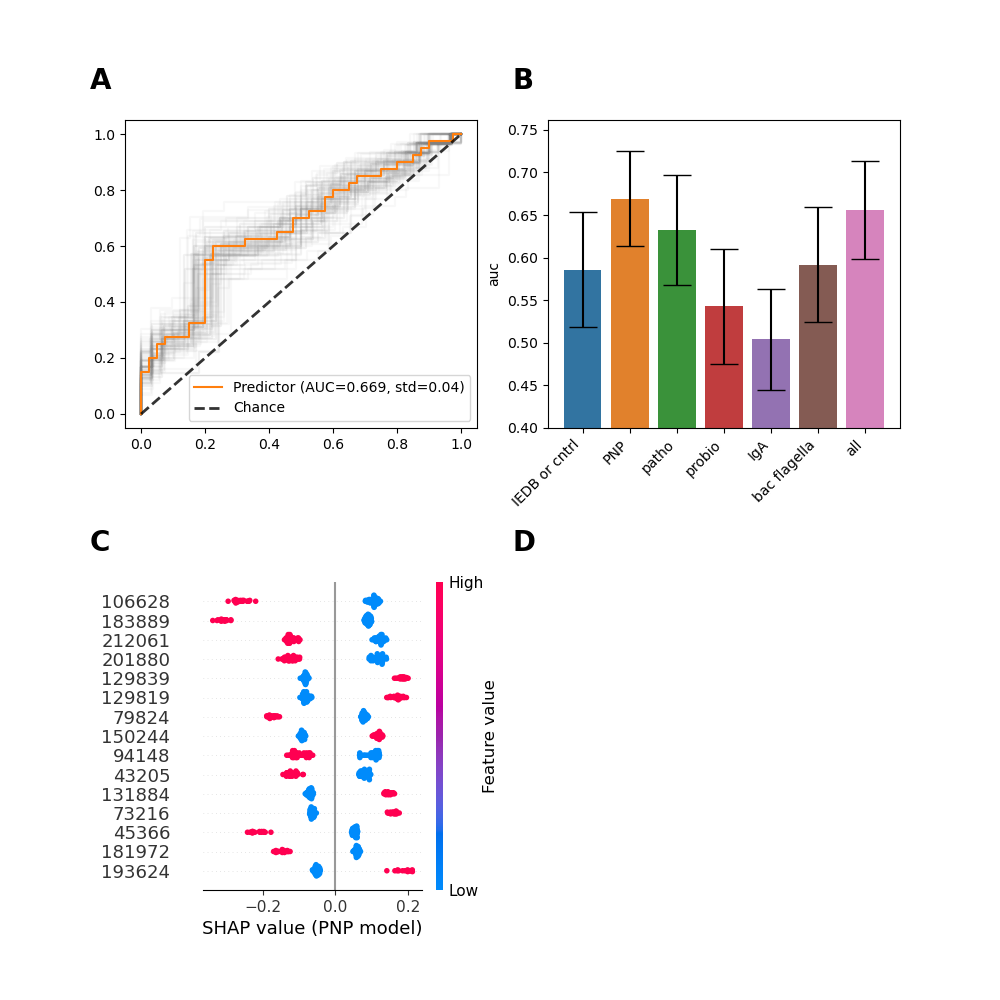
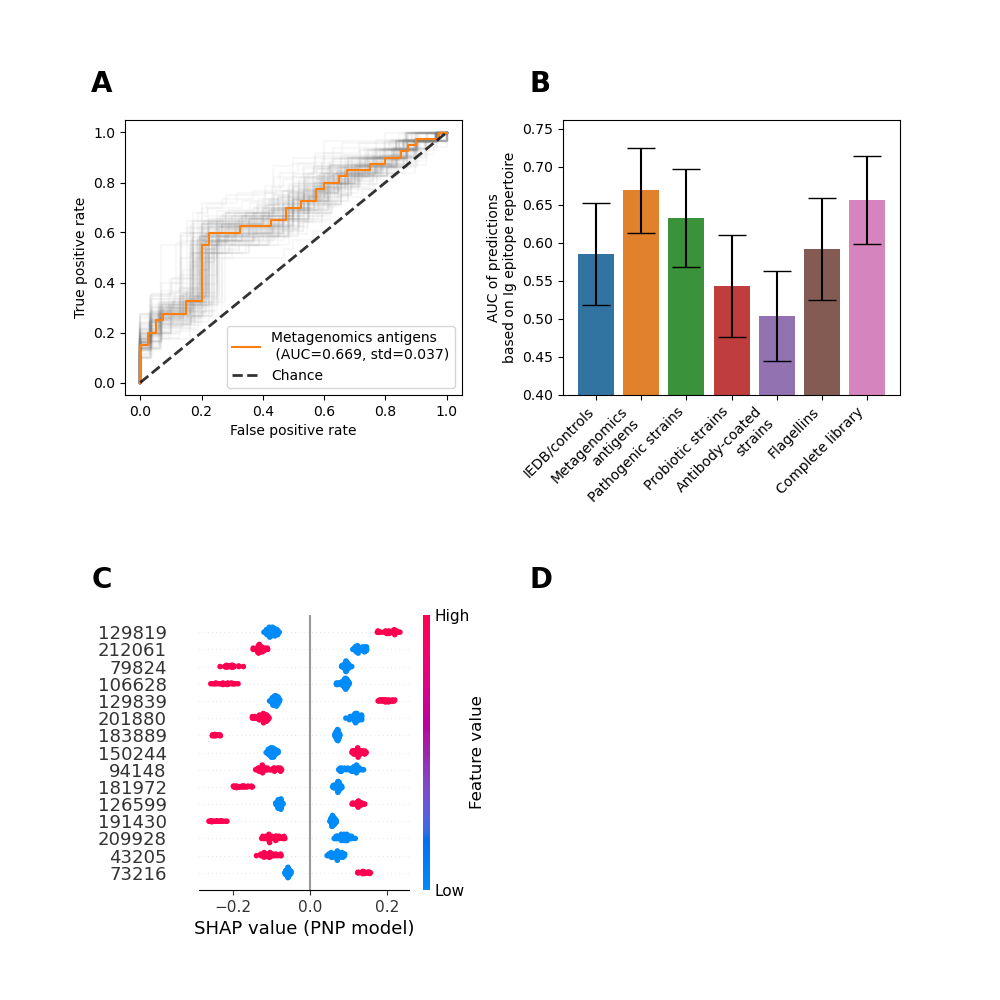
Renaming sections and labels in all figures

diff --git a/PhageIPSeq_CFS/Figures_scripts/figure_1.py b/PhageIPSeq_CFS/Figures_scripts/figure_1.py
@@ -1,5 +1,6 @@
 import os
 import string
+
 import matplotlib.patches as mpatches
 import matplotlib.pyplot as plt
 import pandas as pd
@@ -9,7 +10,7 @@ from skbio.diversity.alpha import shannon
 from statannot import add_stat_annotation
 from statsmodels.stats.multitest import multipletests
 
-from PhageIPSeq_CFS.config import visualizations_dir, oligo_families, oligo_families_colors
+from PhageIPSeq_CFS.config import visualizations_dir, oligo_families, oligo_families_colors, oligos_group_to_name
 from PhageIPSeq_CFS.helpers import get_data_with_outcome, get_oligos_metadata, split_xy_df_and_filter_by_threshold, \
     get_individuals_metadata_df
 
@@ -31,7 +32,7 @@ def create_figure_1(overwrite=True):
     ax = fig.add_subplot(spec[0, 1])
     ax.text(-0.1, 1.1, string.ascii_uppercase[1], transform=ax.transAxes, size=20, weight='bold')
     ax.set_axis_off()
-    internal_spec = spec[0, 1].subgridspec(2, 1, height_ratios=[1, 2])
+    internal_spec = spec[0, 1].subgridspec(2, 1, height_ratios=[1, 4])
     # adding empty space for table on cohort info
     ax = fig.add_subplot(internal_spec[0])
     ax.set_axis_off()
@@ -79,7 +80,7 @@ def create_figure_1(overwrite=True):
     sns.boxplot(data=df, x='status', y='num_oligos', palette=sns.color_palette("muted")[-2:][::-1], ax=ax)
     ax.set_xlabel('')
     ax.spines['right'].set_linestyle('dashed')
-    ax.set_ylabel('Number of oligos per individual')
+    ax.set_ylabel('Number of significantly bound\npeptides per individual')
 
     ax = fig.add_subplot(internal_figure_spec[1])
     ax.get_yaxis().set_visible(False)
@@ -88,25 +89,25 @@ def create_figure_1(overwrite=True):
     ax2 = sns.boxplot(data=df2, x='status', y='shannon_div', palette=sns.color_palette()[-2:][::-1], ax=ax2)
     ax2.set_xlabel('')
     ax2.spines['left'].set_visible(False)
-    ax2.set_ylabel(r'Shannon $\alpha$-diversity')
+    ax2.set_ylabel(r'Shannon $\alpha$-diversity' +' of\nantibody epitope repertoires')
 
     # sub-figure d - scatter plot of expression
     ax = fig.add_subplot(spec[1, 0])
     df = get_data_with_outcome(data_type='exist')
-    cfs_label = 'Number of CFS patients in whome a\npeptite is significantly bound'
-    healthy_label = 'Number of healthy patients in whome\na peptite is significantly bound'
+    cfs_label = 'Percent of CFS patients in whom a\npeptide is significantly bound'
+    healthy_label = 'Percent of healthy patients in whom\na peptide is significantly bound'
     df['disease_status'] = df.reset_index()['is_CFS'].astype(bool).apply(
         lambda x: cfs_label if x else healthy_label).values
-    df = df.groupby('disease_status').sum().T
+    df = df.groupby('disease_status').mean().mul(100).T
     df['is_flagellin'] = get_oligos_metadata()['is_bac_flagella']
     df.sort_values(by='is_flagellin', inplace=True)
     sns.scatterplot(data=df, x=cfs_label,
                     y=healthy_label, hue='is_flagellin',
-                    palette=['lightgray', oligo_families_colors['bac flagella']],
+                    palette=['lightgray', oligo_families_colors['Flagellins']],
                     ax=ax)
     legend_handels, legend_labels = ax.get_legend_handles_labels()
     legend_handels = [legend_handels[legend_labels.index('True')]]
-    legend_labels = ['Bacterial flagellins']
+    legend_labels = ['Flagellins']
     ax.legend(handles=legend_handels, labels=legend_labels)
 
     ax.text(-0.1, 1.1, string.ascii_uppercase[3], transform=ax.transAxes, size=20, weight='bold')
@@ -118,12 +119,13 @@ def create_figure_1(overwrite=True):
     df = df.groupby('is_CFS').sum()
     df = df.loc[:, df.ne(0).all()].copy()
     metadata = get_oligos_metadata()[oligo_families].rename(
-        columns={col: ' '.join(col.split('_')[1:]) for col in oligo_families}).loc[df.columns].stack()
+        columns=oligos_group_to_name).loc[df.columns].stack()
     metadata = metadata[metadata].reset_index(level=-1).drop(columns=0).rename(columns={'level_1': 'Oligo family'})
-    ratio_column = 'Number of patients with oligo\nexpression CFS to healthy ratio'
+    ratio_column = 'Ratios of CFS and healthy individuals'
     metadata[ratio_column] = df.apply(
         lambda oligo: oligo[int(True)] / oligo[int(False)])
-    order = ['PNP', 'patho', 'probio', 'IgA', 'bac flagella', 'IEDB or cntrl']
+    order = ['Metagenomics\nantigens', 'Pathogenic strains', 'Probiotic strains',
+             'Antibody-coated\nstrains', 'Flagellins', 'IEDB/controls']
     ax = sns.boxplot(data=metadata, x='Oligo family', y=ratio_column, ax=ax, order=order,
                      palette=list(map(lambda family: oligo_families_colors[family], order)))
     pval_res = {}
@@ -148,8 +150,7 @@ def create_figure_1(overwrite=True):
     ax = fig.add_subplot(spec[1, 2])
     ax.set_axis_off()
     df = get_data_with_outcome(data_type='exist').reset_index(0).groupby('is_CFS').sum().T
-    metadata = get_oligos_metadata()[oligo_families].rename(
-        columns={col: ' '.join(col.split('_')[1:]) for col in oligo_families}).loc[df.index]
+    metadata = get_oligos_metadata()[oligo_families].rename(columns=oligos_group_to_name).loc[df.index]
     rank_sum_res = {}
     for col in metadata.columns:
         rank_sum_res[col] = stats.ranksums(*df.loc[metadata[col]].T.values)
@@ -158,7 +159,7 @@ def create_figure_1(overwrite=True):
     rank_sum_res['p-value'] = rank_sum_res['p-value'].apply('{:.0e}'.format)
     table = ax.table(cellText=rank_sum_res.astype(str).values, rowLabels=rank_sum_res.index.values,
                      colLabels=rank_sum_res.columns, loc='center right', colWidths=[0.3, 0.3, 0.3])
-    table.scale(1, 2)
+    table.scale(1, 2.5)
     ax.text(-0.1, 1.1, string.ascii_uppercase[5], transform=ax.transAxes, size=20, weight='bold')
 
     if overwrite:

diff --git a/PhageIPSeq_CFS/Figures_scripts/figure_4.py b/PhageIPSeq_CFS/Figures_scripts/figure_4.py
@@ -12,7 +12,7 @@ from scipy import stats
 from PhageIPSeq_CFS.ComparePopulations.comparing_metadata import get_blood_test_name, \
     metadata_distribution_figure_single_blood_test
 from PhageIPSeq_CFS.config import visualizations_dir, oligo_order, \
-    oligo_families_colors, predictors_info, predictions_outcome_dir
+    oligo_families_colors, predictors_info, predictions_outcome_dir, oligos_group_to_name
 from PhageIPSeq_CFS.helpers import get_individuals_metadata_df, get_outcome, get_imputed_individuals_metadata, \
     compute_auc_from_prediction_results, get_x_y, create_auc_with_bootstrap_figure, get_oligos_metadata
 
@@ -84,8 +84,7 @@ if __name__ == "__main__":
         blood_test_auc_std, blood_test_auc = create_auc_with_bootstrap_figure(
             num_confidence_intervals_repeats=num_auc_repeats, x=x, y=y,
             predictor_class=estimator_info['predictor_class'], ax=ax, color=blood_tests_only_color,
-            prediction_results=prediction_results, **predictor_kwargs)
-        ax.set_title('Blood tests alone')
+            prediction_results=prediction_results, predictor_name='Blood tests alone\n', **predictor_kwargs)
         tmp = ax.text(ax.transData.inverted().transform((255, 10))[0], 1.1, string.ascii_uppercase[1],
                       transform=ax.transAxes, size=20, weight='bold')
 
@@ -112,9 +111,9 @@ if __name__ == "__main__":
             ['predict_proba']]
         prediction_results['y'] = y
         create_auc_with_bootstrap_figure(num_auc_repeats, x, y, estimator_info['predictor_class'],
-                                         color=oligo_families_colors['bac flagella'],
-                                         ax=ax, prediction_results=prediction_results, **predictor_kwargs)
-        ax.set_title('Blood tests and flagella')
+                                         color=oligo_families_colors['Flagellins'],
+                                         ax=ax, prediction_results=prediction_results,
+                                         predictor_name='Blood tests and flagellins\n', **predictor_kwargs)
         ax.text(-0.1, 1.1, string.ascii_uppercase[2], transform=ax.transAxes, size=20, weight='bold')
 
         # Summary of results
@@ -124,8 +123,7 @@ if __name__ == "__main__":
         best_auc_df = df.stack(level=0).reset_index().sort_values(by='auc', ascending=False).groupby(
             'subgroup').first().reset_index()
         best_auc_df['subgroup'] = best_auc_df['subgroup'].apply(
-            lambda subgroup: ' '.join(subgroup.split('_'))).apply(
-            lambda subgroup: subgroup[3:] if subgroup.startswith('is ') else subgroup)
+            lambda subgroup: oligos_group_to_name[subgroup])
         best_auc_df['auc_ci'] = best_auc_df.apply(
             lambda row: np.array(stats.norm(0, row['std']).interval(0.95)), axis=1)
         sns.barplot(data=best_auc_df, x='subgroup', y='auc', ci=None, ax=ax, palette=sns.color_palette(),
@@ -136,11 +134,11 @@ if __name__ == "__main__":
                   'fmt': 'none', 'ecolor': 'black', 'capsize': 10}
         ax.errorbar(**params)
         ax.set_ylim(bottom=0.7)
-        ax.set_title('Prediction results by subgroup')
         ax.set_xticklabels(ax.get_xticklabels(), rotation=45, ha='right')
         ax.legend(
             handles=[mpatches.Patch(facecolor=blood_tests_only_color, label='Blood tests only', edgecolor='black')])
         ax.xaxis.label.set_visible(False)
+        ax.set_ylabel('AUC of predictions\nbased on Ig epitope repertoire')
         ax.text(-0.1, 1.1, string.ascii_uppercase[3], transform=ax.transAxes, size=20, weight='bold')
 
         # Add shap beeswarm of flagella model

diff --git a/PhageIPSeq_CFS/Figures_scripts/figure_3.py b/PhageIPSeq_CFS/Figures_scripts/figure_3.py
@@ -9,7 +9,7 @@ from matplotlib import pyplot as plt
 from scipy import stats
 
 from PhageIPSeq_CFS.config import visualizations_dir, predictors_info, predictions_outcome_dir, oligo_families_colors, \
-    oligo_order
+    oligo_order, oligos_group_to_name
 from PhageIPSeq_CFS.helpers import get_outcome, get_x_y, get_oligos_metadata, \
     create_auc_with_bootstrap_figure
 
@@ -20,7 +20,7 @@ if __name__ == "__main__":
     for estimator_name, estimator_info in predictors_info.items():
         predictor_kwargs = estimator_info['predictor_kwargs']
         fig = plt.figure(figsize=(10, 10))
-        spec = fig.add_gridspec(2, 2, hspace=0.5)
+        spec = fig.add_gridspec(2, 2, hspace=0.8, wspace=0.3)
         num_auc_repeats = 100
 
         # Sub-figure a
@@ -40,8 +40,9 @@ if __name__ == "__main__":
         prediction_results = prediction_results.set_index('sample_id').rename(columns={'0': 'predict_proba'})
         prediction_results['y'] = get_outcome()
         create_auc_with_bootstrap_figure(num_auc_repeats, None, None, estimator_info['predictor_class'],
-                                         color=oligo_families_colors['PNP'], chance_color='black',
-                                         ax=ax, prediction_results=prediction_results, **predictor_kwargs)
+                                         color=oligo_families_colors['Metagenomics\nantigens'], chance_color='black',
+                                         ax=ax, prediction_results=prediction_results,
+                                         predictor_name='Metagenomics antigens\n', **predictor_kwargs)
         ax.text(-0.1, 1.1, string.ascii_uppercase[0], transform=ax.transAxes, size=20, weight='bold')
 
         # Sub-figure b
@@ -51,9 +52,7 @@ if __name__ == "__main__":
             index_col=[0, 1], header=[0, 1])
         best_auc_df = df.stack(level=0).reset_index().sort_values(by='auc', ascending=False).groupby(
             'subgroup').first().reset_index()
-        best_auc_df['subgroup'] = best_auc_df['subgroup'].apply(
-            lambda subgroup: ' '.join(subgroup.split('_'))).apply(
-            lambda subgroup: subgroup[3:] if subgroup.startswith('is ') else subgroup)
+        best_auc_df['subgroup'] = best_auc_df['subgroup'].apply(lambda subgroup: oligos_group_to_name[subgroup])
         best_auc_df['auc_ci'] = best_auc_df.apply(
             lambda row: np.array(stats.norm(0, row['std']).interval(0.95)), axis=1)
         sns.barplot(data=best_auc_df, x='subgroup', y='auc', ci=None, ax=ax, palette=sns.color_palette(),
@@ -65,6 +64,7 @@ if __name__ == "__main__":
         ax.errorbar(**params)
         ax.set_xticklabels(ax.get_xticklabels(), rotation=45, ha='right')
         ax.set_ylim(bottom=0.4)
+        ax.set_ylabel('AUC of predictions\nbased on Ig epitope repertoire')
         ax.xaxis.label.set_visible(False)
         ax.text(-0.1, 1.1, string.ascii_uppercase[1], transform=ax.transAxes, size=20, weight='bold')
 

diff --git a/PhageIPSeq_CFS/config.py b/PhageIPSeq_CFS/config.py
@@ -9,15 +9,19 @@ predictions_outcome_dir = os.path.join(repository_data_dir, 'Predictions')
 visualizations_dir = os.path.join(os.path.dirname(__file__), 'Figures')
 logs_path = '/net/mraid08/export/genie/Lab/Phage/jobs'
 oligo_families = ['is_PNP', 'is_patho', 'is_probio', 'is_IgA', 'is_bac_flagella', 'is_IEDB_or_cntrl']
-oligo_order = ['IEDB or cntrl', 'PNP', 'patho', 'probio', 'IgA', 'bac flagella', 'all']
+oligos_group_to_name = {'is_PNP': 'Metagenomics\nantigens', 'all': 'Complete library', 'is_patho': 'Pathogenic strains',
+                        'is_probio': 'Probiotic strains', 'is_IgA': 'Antibody-coated\nstrains',
+                        'is_bac_flagella': 'Flagellins', 'is_IEDB_or_cntrl': 'IEDB/controls'}
+oligo_order = ['IEDB/controls', 'Metagenomics\nantigens', 'Pathogenic strains', 'Probiotic strains',
+               'Antibody-coated\nstrains', 'Flagellins', 'Complete library']
 oligo_families_colors = dict(zip(oligo_order, sns.color_palette()[:len(oligo_order)]))
 RANDOM_STATE = 156124
 predictors_info = {'xgboost': {'predictor_class': XGBClassifier, 'predictor_kwargs': {'use_label_encoder': False,
-                                                                                     'objective': 'binary:logistic',
-                                                                                     'eval_metric': 'logloss',
-                                                                                     'nthread': 1}},
-                  'GBR': {'predictor_class': GradientBoostingClassifier,
-                          'predictor_kwargs': {"n_estimators": 2000, "learning_rate": .01, "max_depth": 6,
-                                               "max_features": 1,
-                                               "min_samples_leaf": 10}}}
+                                                                                      'objective': 'binary:logistic',
+                                                                                      'eval_metric': 'logloss',
+                                                                                      'nthread': 1}},
+                   'GBR': {'predictor_class': GradientBoostingClassifier,
+                           'predictor_kwargs': {"n_estimators": 2000, "learning_rate": .01, "max_depth": 6,
+                                                "max_features": 1,
+                                                "min_samples_leaf": 10}}}
 num_auc_repeats = 200

diff --git a/PhageIPSeq_CFS/helpers.py b/PhageIPSeq_CFS/helpers.py
@@ -154,7 +154,7 @@ def get_x_y(bottom_threshold, data_type, oligos_subgroup, with_bloodtests, imput
 
 
 def create_auc_with_bootstrap_figure(num_confidence_intervals_repeats, x, y, predictor_class, color='blue', ax=None,
-                                     prediction_results=None, chance_color='r', *predictor_args,
+                                     prediction_results=None, chance_color='r', predictor_name='Predictor', *predictor_args,
                                      **predictor_kwargs):
     if prediction_results is None:
         prediction_results = run_leave_one_out_prediction(x, y, predictor_class, *predictor_args, **predictor_kwargs)
@@ -168,10 +168,12 @@ def create_auc_with_bootstrap_figure(num_confidence_intervals_repeats, x, y, pre
         auc_confidence_interval.append(round_auc)
         ax.plot(round_fprs, round_tprs, color='grey', alpha=0.05)
     auc_std = np.std(auc_confidence_interval)
-    ax.plot(fprs, tprs, color=color, label=f"Predictor (AUC={round(auc_value, 3)}, std={round(auc_std, 3)})")
+    ax.plot(fprs, tprs, color=color, label=f"{predictor_name} (AUC={round(auc_value, 3)}, std={round(auc_std, 3)})")
     ax.plot([0, 1], [0, 1], linestyle='--', lw=2, color=chance_color,
             label='Chance', alpha=.8)
     ax.legend()
+    ax.set_ylabel('True positive rate')
+    ax.set_xlabel('False positive rate')
     return auc_std, auc_value
 
 
